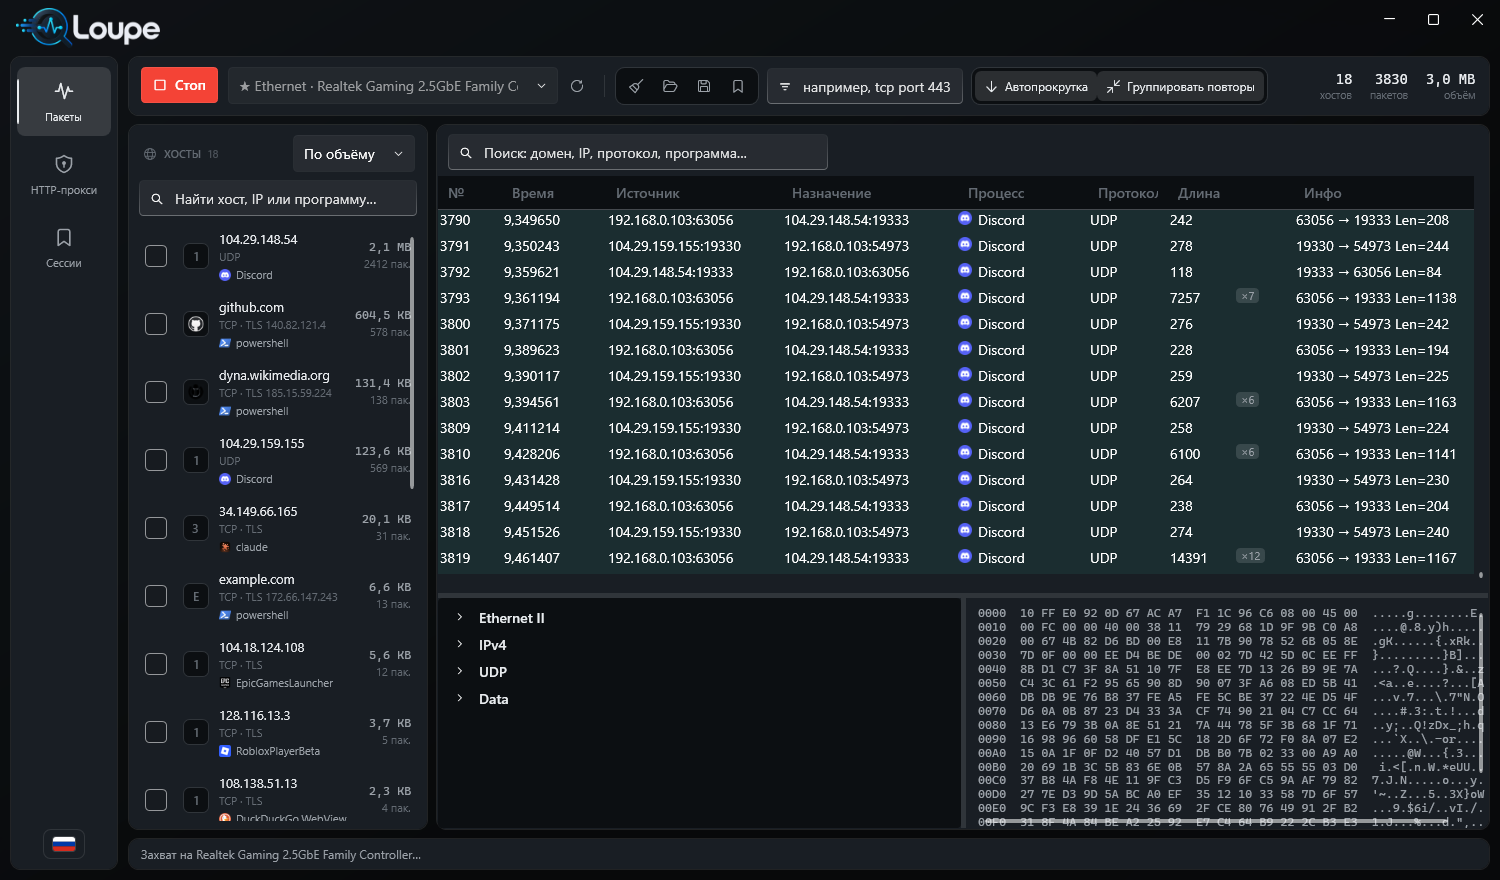
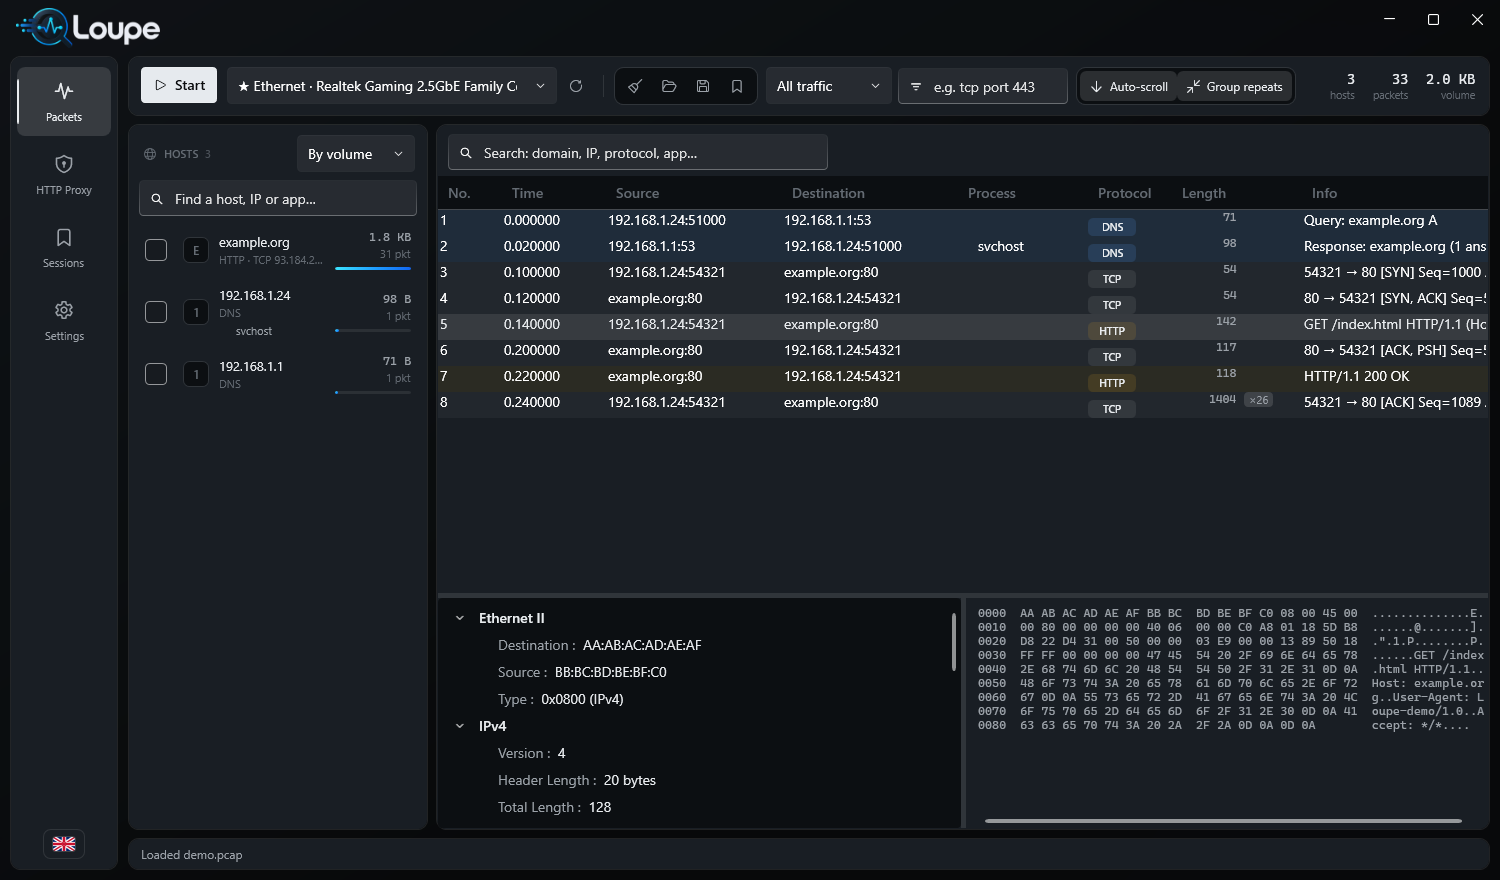
Fresh screenshots of the new interface, in both languages
Number formatting now follows the chosen UI language, and the dissection
tree opens on the fields rather than on four collapsed layers.

diff --git a/src/Loupe.App/Views/PacketCapturePage.xaml b/src/Loupe.App/Views/PacketCapturePage.xaml
@@ -445,6 +445,13 @@
                     <TreeView Grid.Column="0" x:Name="DetailsTree"
                               ItemsSource="{Binding SelectedPacket.Packet.Layers}"
                               Background="{StaticResource SurfaceSunkenBrush}" BorderThickness="0" Padding="6">
+                        <!-- Open by default: the fields are the reason the pane exists, and
+                             four collapsed rows make you click four times to see anything. -->
+                        <TreeView.ItemContainerStyle>
+                            <Style TargetType="TreeViewItem" BasedOn="{StaticResource {x:Type TreeViewItem}}">
+                                <Setter Property="IsExpanded" Value="True" />
+                            </Style>
+                        </TreeView.ItemContainerStyle>
                         <TreeView.ItemTemplate>
                             <HierarchicalDataTemplate ItemsSource="{Binding Fields}">
                                 <TextBlock Text="{Binding Name}" FontWeight="SemiBold" Foreground="{StaticResource TextPrimaryBrush}" />

diff --git a/src/Loupe.App/Views/ProxyPage.xaml b/src/Loupe.App/Views/ProxyPage.xaml
@@ -435,7 +435,7 @@
                                 </DataTemplate>
                             </DataGridTemplateColumn.CellTemplate>
                         </DataGridTemplateColumn>
-                        <DataGridTextColumn Header="{DynamicResource Proxy_Col_Scheme}" Binding="{Binding Scheme}" Width="62" />
+                        <DataGridTextColumn Header="{DynamicResource Proxy_Col_Scheme}" Binding="{Binding Scheme}" Width="78" />
                         <DataGridTemplateColumn Header="{DynamicResource Proxy_Col_Host}" Width="200">
                             <DataGridTemplateColumn.CellTemplate>
                                 <DataTemplate>

diff --git a/src/Loupe.App/Localization/LocalizationService.cs b/src/Loupe.App/Localization/LocalizationService.cs
@@ -63,7 +63,14 @@ public static class LocalizationService
         app.Resources.MergedDictionaries.Add(dictionary);
 
         CurrentLanguage = language;
-        Thread.CurrentThread.CurrentUICulture = CultureInfo.GetCultureInfo(MapToCultureName(language.Code));
+
+        // Both cultures, not just the UI one: numbers and dates are read in the same language as
+        // the labels around them, so an English UI should not be reporting "2,0 KB".
+        var culture = CultureInfo.GetCultureInfo(MapToCultureName(language.Code));
+        Thread.CurrentThread.CurrentUICulture = culture;
+        Thread.CurrentThread.CurrentCulture = culture;
+        CultureInfo.DefaultThreadCurrentUICulture = culture;
+        CultureInfo.DefaultThreadCurrentCulture = culture;
 
         if (persist) SaveLanguageCode(language.Code);
         LanguageChanged?.Invoke(null, EventArgs.Empty);

diff --git a/README.md b/README.md
@@ -195,6 +195,10 @@ of the nav rail.
 
 ## Settings
 
+<div align="center">
+<img src="docs/screenshots/settings.png" alt="Settings" width="900">
+</div>
+
 One page, reachable with `F1`, for the few things worth a choice: whether site
 icons are fetched at all, how many rows the packet list keeps (which is really a
 memory setting), whether capturing starts with the app, what Loupe has stored on
